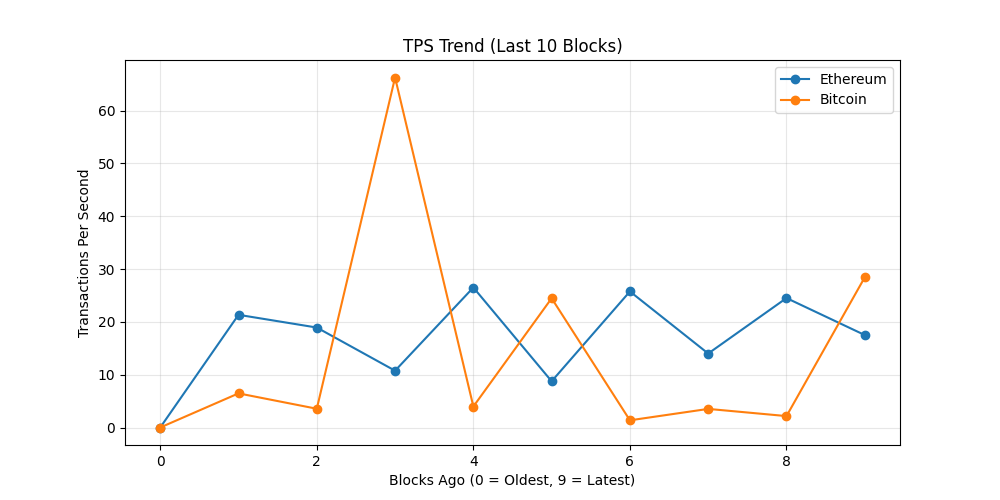
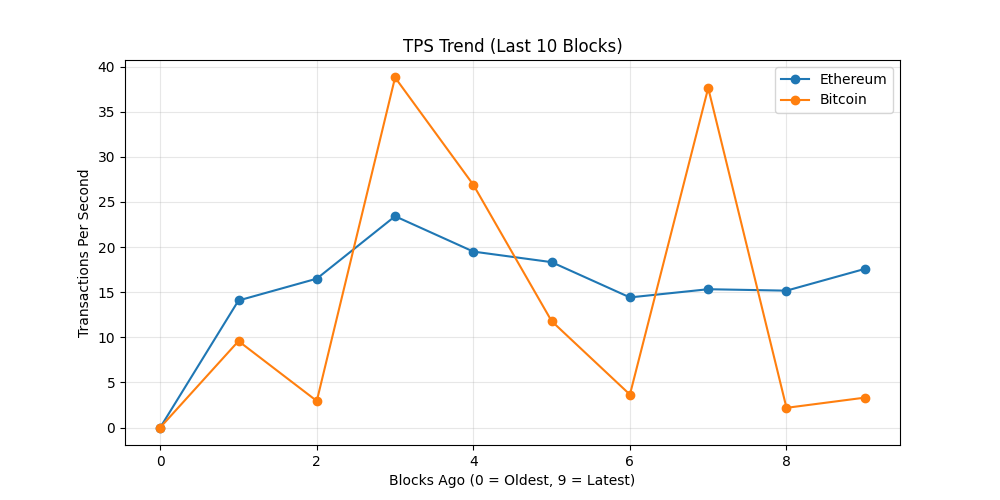
chore: update on-chain dashboard

diff --git a/README.md b/README.md
@@ -19,7 +19,7 @@ The README itself acts as the dashboard and is regenerated automatically on a 6 
 demonstrating a production-style, infrastructure-focused observability workflow rather
 than a traditional UI-driven approach.
 
-_Last updated: 2026-06-03 21:29 UTC_
+_Last updated: 2026-06-04 05:03 UTC_
 
 ## API Usage (GetBlock.io)
 - Calls used: **24**
@@ -27,8 +27,8 @@ _Last updated: 2026-06-03 21:29 UTC_
 ## Network Metrics
 | Chain | Block Height | TX Count | TPS (10 blk avg) | Block Util | Avg Fee |
 |------|-------------|----------|------------------|------------|---------|
-| Ethereum | 25239551 | 210 | 17.5 | 42.26% | 0.3 Gwei |
-| Bitcoin | 952256 | 4663 | 28.43 | 99.8% | N/A |
+| Ethereum | 25241812 | 211 | 17.58 | 25.03% | 0.2 Gwei |
+| Bitcoin | 952293 | 2944 | 3.31 | 99.79% | N/A |
 
 ## Visuals
 ### Transactions Trend
@@ -43,11 +43,11 @@ _Last updated: 2026-06-03 21:29 UTC_
 ## Whale Alerts (latest block)
 - Transaction hashes are truncated for readability.
 - Full hashes are available in `dashboards/metrics.json`
-- Bitcoin | 401.58 BTC | `0464381091dd…`
-- Bitcoin | 100.81 BTC | `8ab49810cb9c…`
-- Bitcoin | 328.93 BTC | `df7fe7ab7757…`
-- Bitcoin | 614.7 BTC | `f0bff72dd501…`
-- Bitcoin | 154.83 BTC | `a3b0d9823aa2…`
+- Bitcoin | 251.25 BTC | `dd9c53f47316…`
+- Bitcoin | 333.83 BTC | `9bf15bc2bba7…`
+- Bitcoin | 206.69 BTC | `32c5fe2f9e45…`
+- Bitcoin | 100.1 BTC | `2b96a5bb3482…`
+- Bitcoin | 104.01 BTC | `5db7c6ef1db8…`
 
 ## Run locally
 
